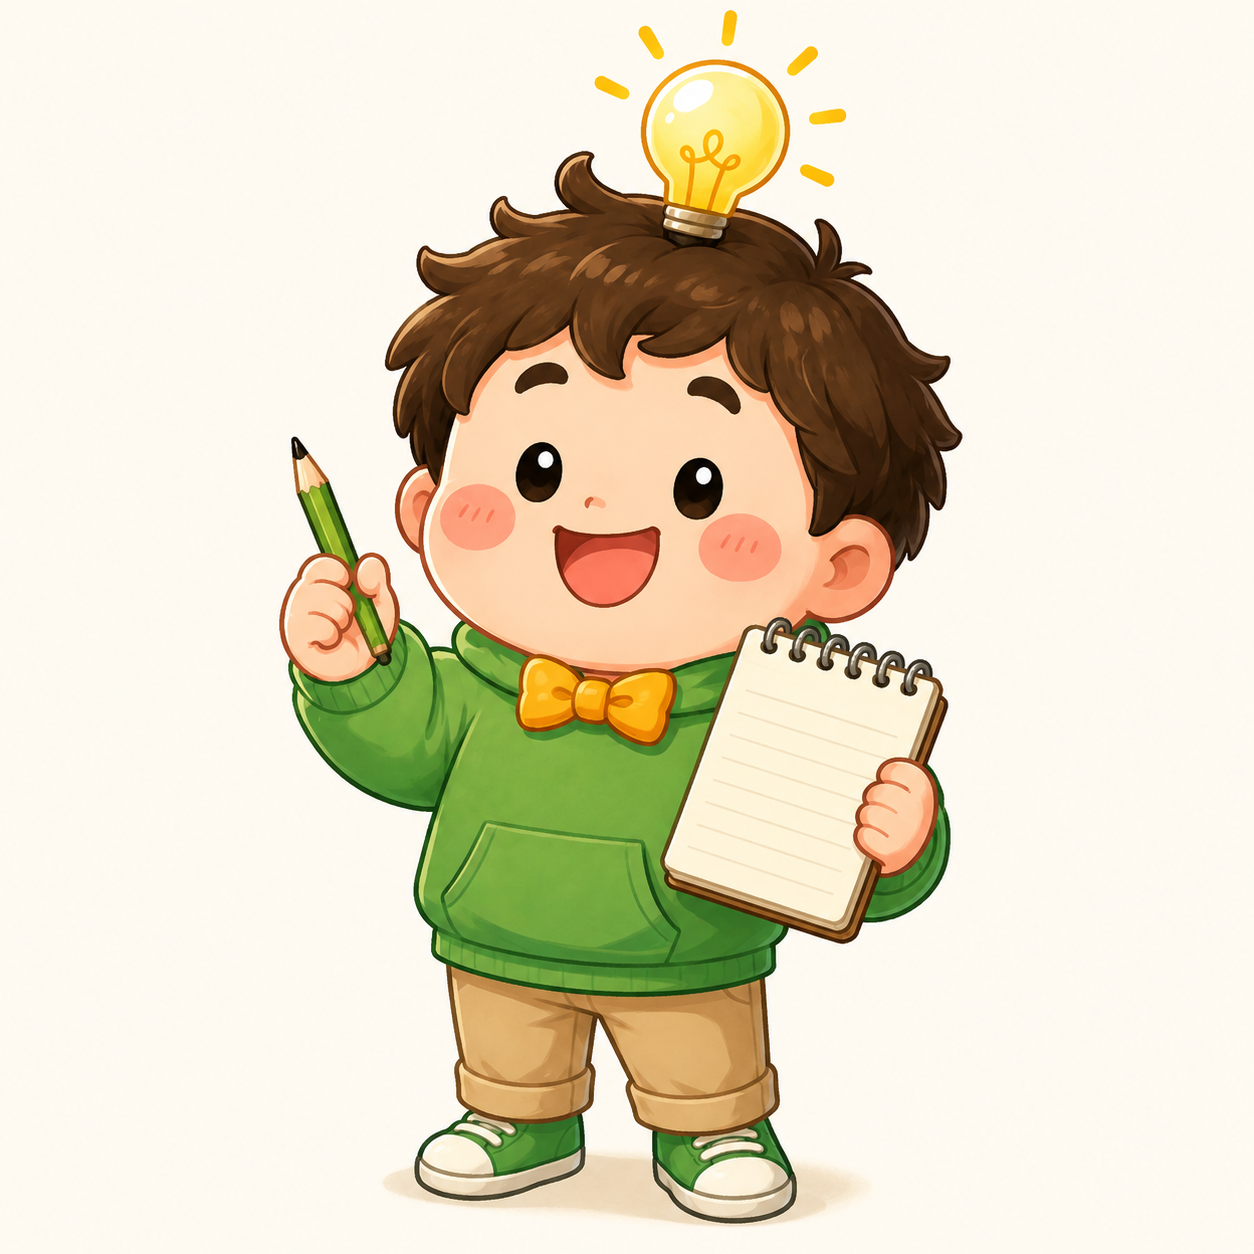
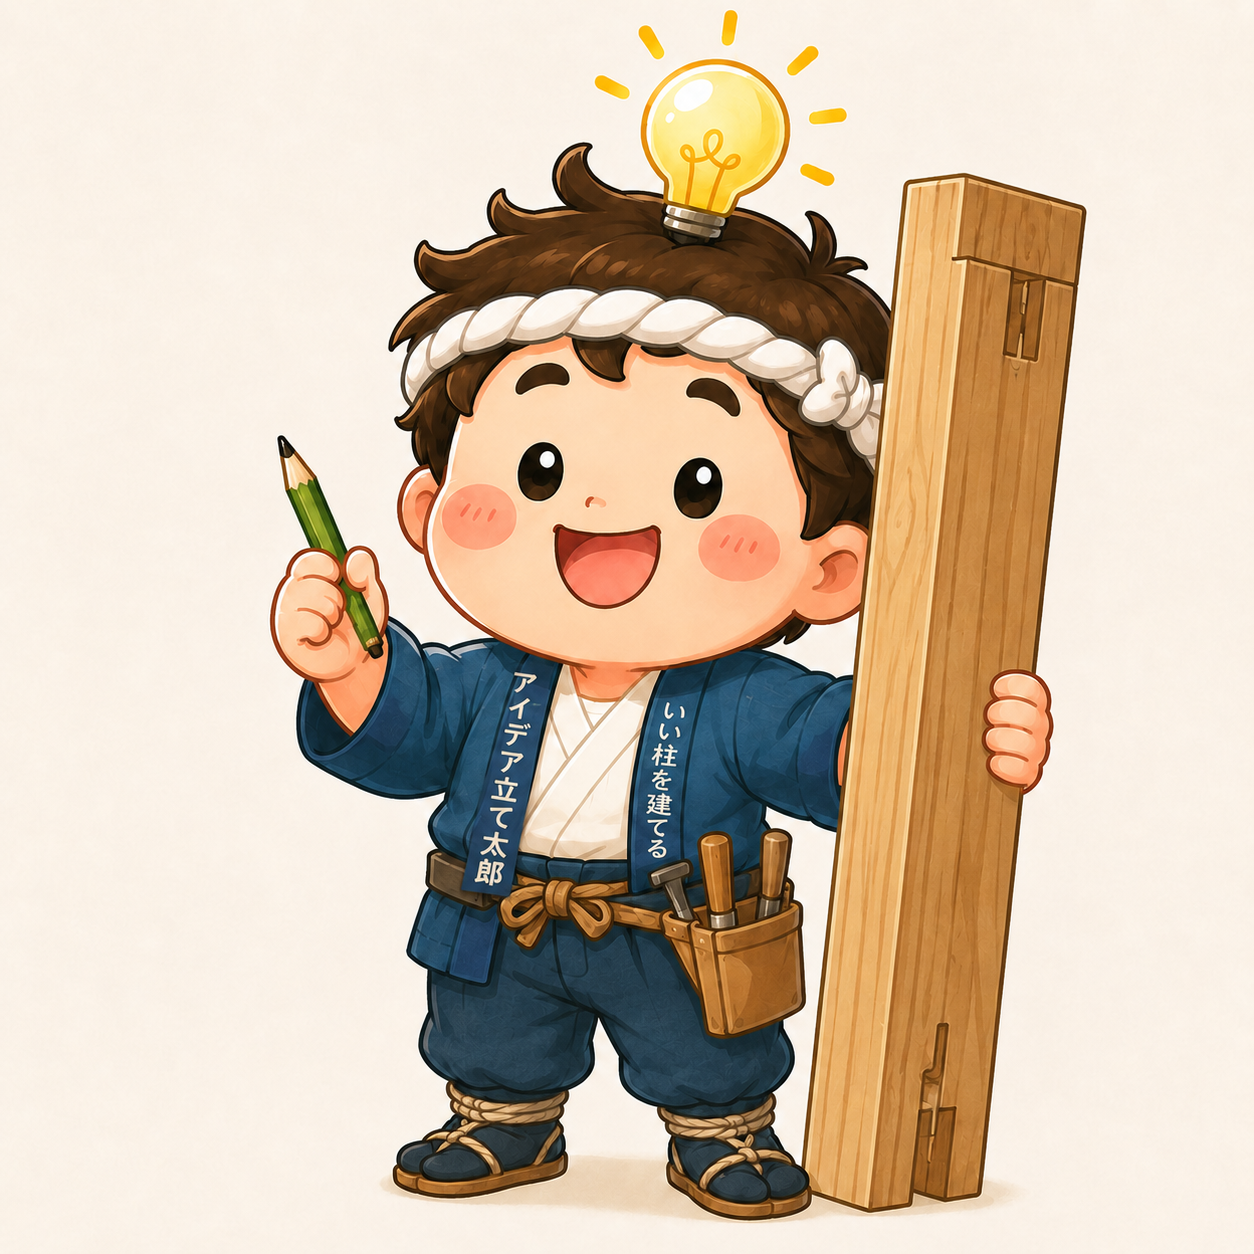
Add files via upload

diff --git a/index.html b/index.html
@@ -4,15 +4,15 @@
   <meta charset="utf-8">
   <meta name="viewport" content="width=device-width, initial-scale=1">
   <meta name="description" content="ショートストーリーのアイデアを自分で考えるための発想支援アプリ">
-  <title>アイデアだし太郎｜ショートストーリー発想支援</title>
+  <title>アイデア立てた太郎｜ショートストーリー発想支援</title>
   <link rel="stylesheet" href="style.css">
 </head>
 <body>
 <main class="app">
   <header>
     <div class="title-sub">ショートストーリー発想支援</div>
-    <h1>アイデアだし太郎</h1>
-    <img class="taro-image" src="idea-dashitaro.png" alt="アイデアだし太郎">
+    <h1>アイデア立てた太郎</h1>
+    <img class="taro-image" src="idea-dashitaro.png" alt="アイデア立てた太郎">
   </header>
 
   <section class="card">
@@ -94,7 +94,7 @@
   <section class="result">
     <div class="resulthead">
       <span>🌱</span>
-      <div><small>あなたの発想メモ</small><h2>アイデアの柱ができました</h2></div>
+      <div><small>あなたの発想メモ</small><h2>アイデアの柱が立ちました！</h2></div>
     </div>
 
     <dl>
@@ -110,7 +110,7 @@
       <p id="resultPillar">テーマを入れると、ここに物語の柱が育っていきます。</p>
     </div>
 
-    <button class="primary" id="copyResult">📋 種をコピー</button>
+    <button class="primary" id="copyResult">📋 アイデアの柱をコピー</button>
     <button id="resetAll">↺ はじめから</button>
     <p id="copyStatus"></p>
   </section>

diff --git a/script.js b/script.js
@@ -118,7 +118,7 @@ function resetAll(){
 
 function copyResult(){
   const text=[
-    "🌱 54字の種ができました",
+    "🌱 アイデアの柱が立ちました！",
     `テーマ：${$("resultThemes").textContent}`,
     `出来事：${$("resultEvent").textContent}`,
     `展開：${$("resultTrouble").textContent}`,

diff --git a/README.md b/README.md
@@ -1,10 +1,10 @@
-# アイデアだし太郎
+# アイデア立てた太郎
 
 ショートストーリー発想支援WEBアプリです。
 
 画面上部は
 
 ショートストーリー発想支援  
-**アイデアだし太郎**
+**アイデア立てた太郎**
 
 の2段タイトルです。
